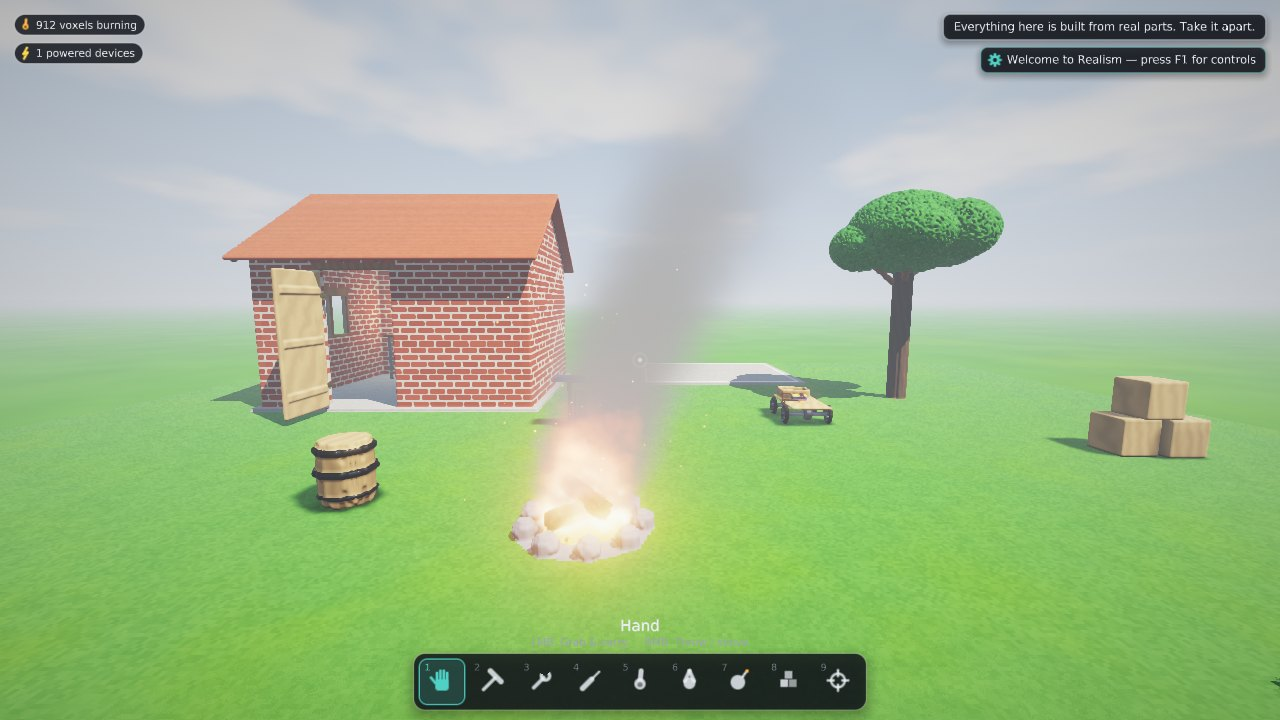
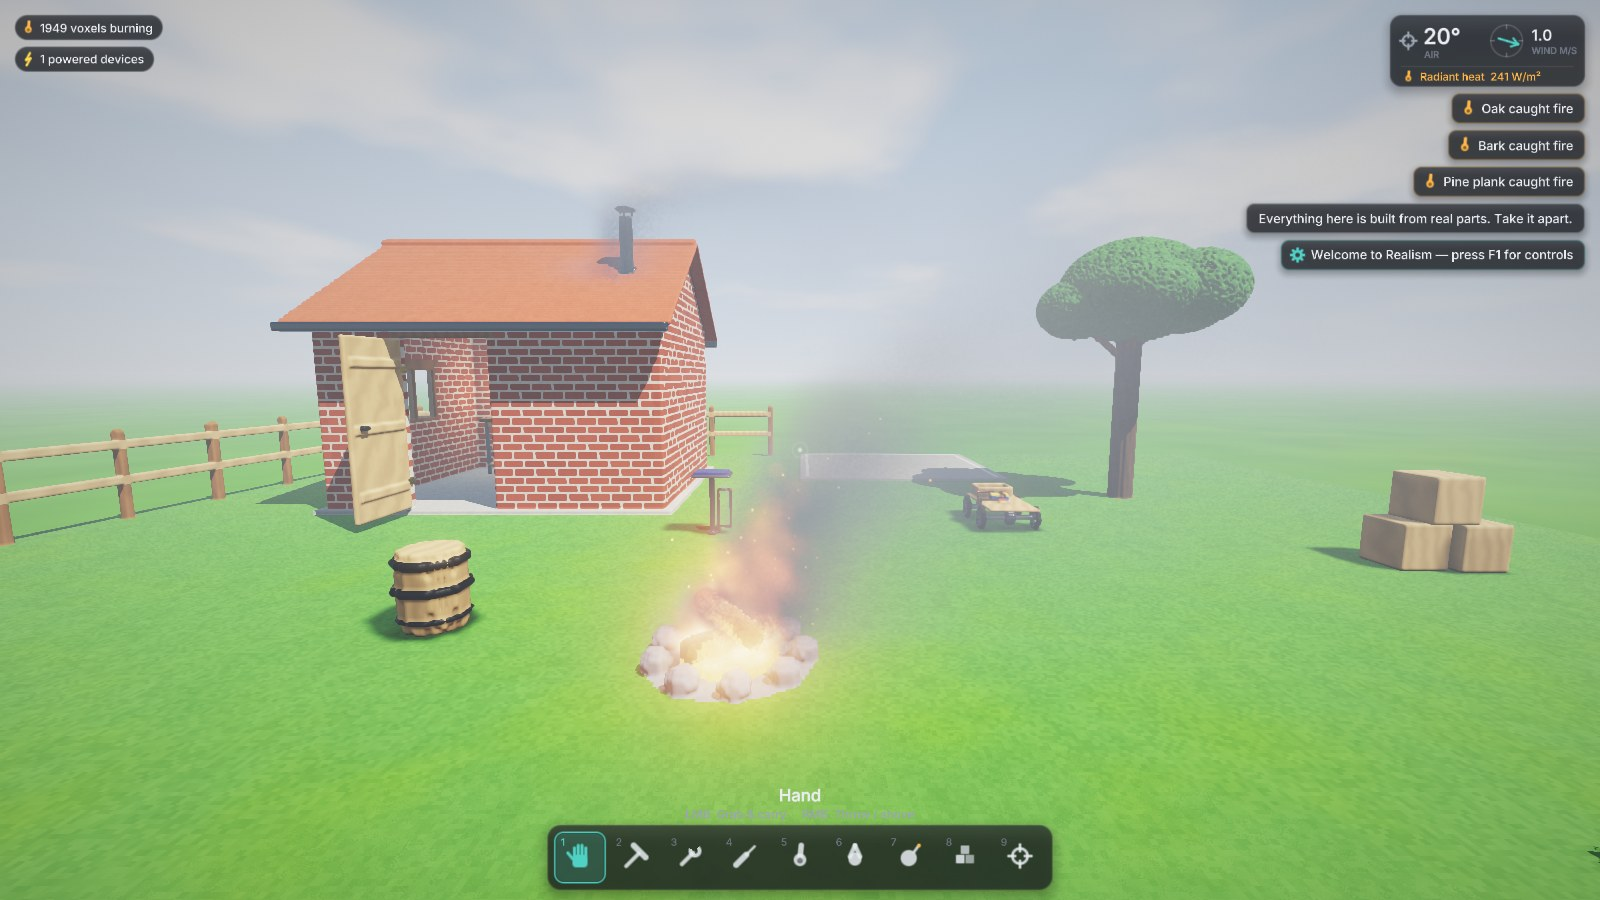
Fresh screenshots and README for v2
Title screen, the yard with volumetric smoke and the stove's chimney, the
stove, the water tower jet, workbench, workshop, torch and a blast.

Claude-Session: https://claude.ai/code/session_01Y8SAkjs6nv382K7jKMhkXV

diff --git a/README.md b/README.md
@@ -4,12 +4,15 @@ A voxel physics sandbox for Windows where every object is assembled from the par
 
 The desk lamp is a cast-iron base, a 12 V Li-ion pack with + and − terminals, a toggle switch, copper flex routed up a steel pole, an aluminium shade and a glass bulb with a tungsten filament. The shed is individual bricks laid in mortar under oak rafters and clay tiles, with gutters, a ridge cap and a stone sill. The wood stove in its corner is a steel firebox with a glass door and air slots, logs burning inside, and a flue through the roof that really draws: the hot gas rises up the pipe and the smoke leaves at the chimney. The water tower by the pond is a steel tank on braced legs with a downpipe and a brass gate valve; open it (E) and the water jets out at the speed its head gives. The rover is a plywood deck, a motor on a steel drive shaft, bearing blocks and rubber tyres on steel rims. You can take all of it apart, piece by piece.
 
-![Overview](docs/screenshots/overview.jpg)
+![Title screen](docs/screenshots/title.jpg)
+
+![The yard: campfire smoke drifting on the breeze, the stove's chimney drawing](docs/screenshots/overview.jpg)
 
 | | |
 |---|---|
-| ![Workbench, lit lamp, Scanner readout](docs/screenshots/workbench.jpg) | ![Workshop with the Rover blueprint](docs/screenshots/workshop.jpg) |
-| ![After a 300 kJ blast](docs/screenshots/explosion.jpg) | ![Blowtorch on a brick wall: 1500 °C](docs/screenshots/torch.jpg) |
+| ![Wood stove in the shed, flue up through the roof](docs/screenshots/stove.jpg) | ![Water tower valve open: a jet at Torricelli's speed](docs/screenshots/tower.jpg) |
+| ![Workbench, lit lamp, scanner readout](docs/screenshots/workbench.jpg) | ![Workshop with the Rover blueprint](docs/screenshots/workshop.jpg) |
+| ![Blowtorch on a brick wall: 1500 °C](docs/screenshots/torch.jpg) | ![After a 300 kJ blast: dust and smoke in the air](docs/screenshots/explosion.jpg) |
 
 ## What's simulated
 
@@ -162,7 +165,7 @@ Requirements: OpenGL 4.3 and a CPU with AVX2.
 | `render_scale` | 1.0 | Lower it for more frame rate (0.75 is a good laptop setting). |
 | `thermal_warp` | 20 | How much faster heat runs than real time. |
 | `threads` | 0 | 0 uses every hardware thread. |
-| `smooth_surfaces`, `shadows`, `bloom` | on | Also in the in-game menu. |
+| `smooth_surfaces`, `shadows`, `bloom`, `volumetrics` | on | Also in the in-game settings. `volumetrics` is the ray-marched smoke, steam and heat haze. |
 
 The defaults target a 6-core/12-thread laptop CPU (e.g. i7-10750H) with an 8 GB GPU:
 - About 330 MB of system RAM for the world.
@@ -190,7 +193,7 @@ This builds the world and checks that:
 - the wood stove draws warm air up its flue;
 - opening the water tower's valve sends out a jet at about √(2gh) for its head.
 
-`--script file` runs a command script (`pos`, `wait`, `tool`, `press`, `click`, `explode`, `workshop`, `blueprint`, `launch`, `shot`, `log`), which is used for automated screenshots.
+`--script file` runs a command script (`pos`, `wait`, `tool`, `press`, `click`, `explode`, `workshop`, `blueprint`, `launch`, `title`, `menu`, `shot`, `log`, `probe x y z` for the air and radiant heat at a point), which is used for automated screenshots.
 
 ## Licence notes
 
